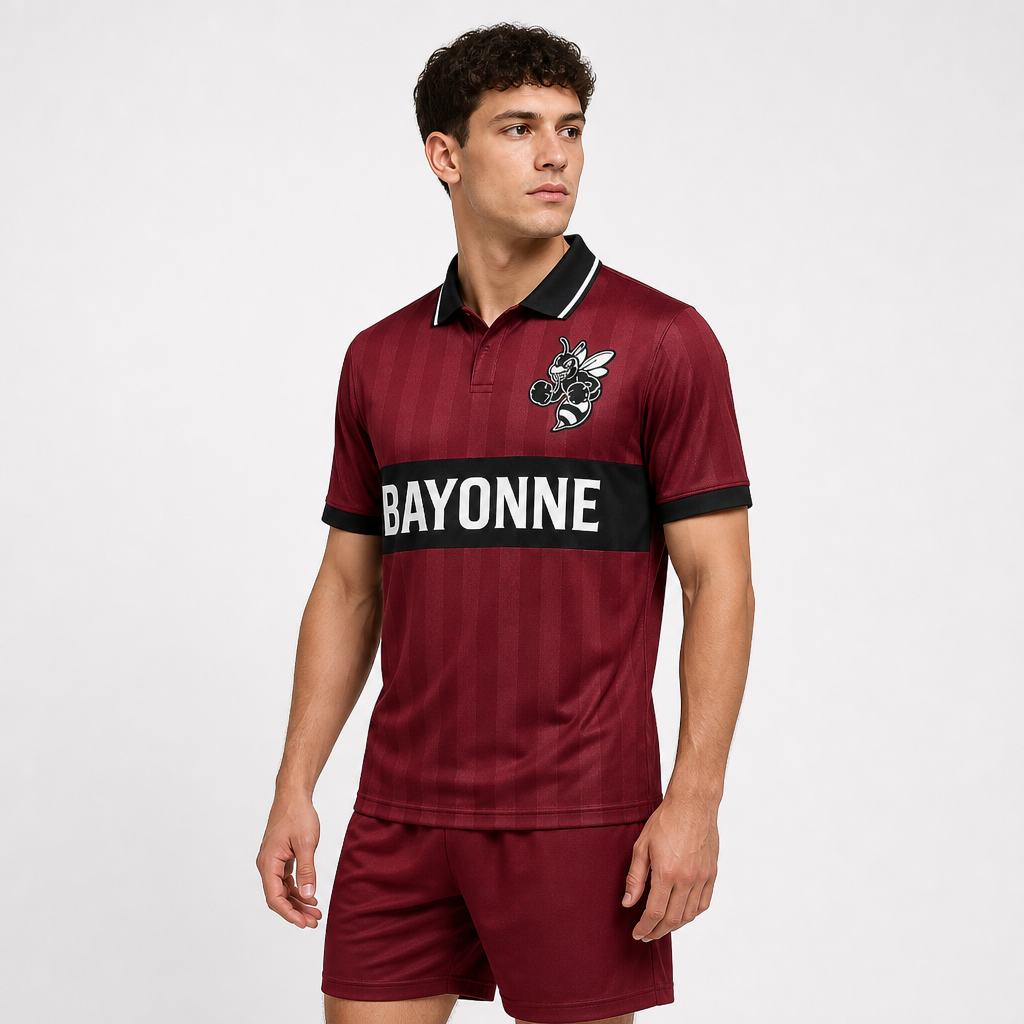
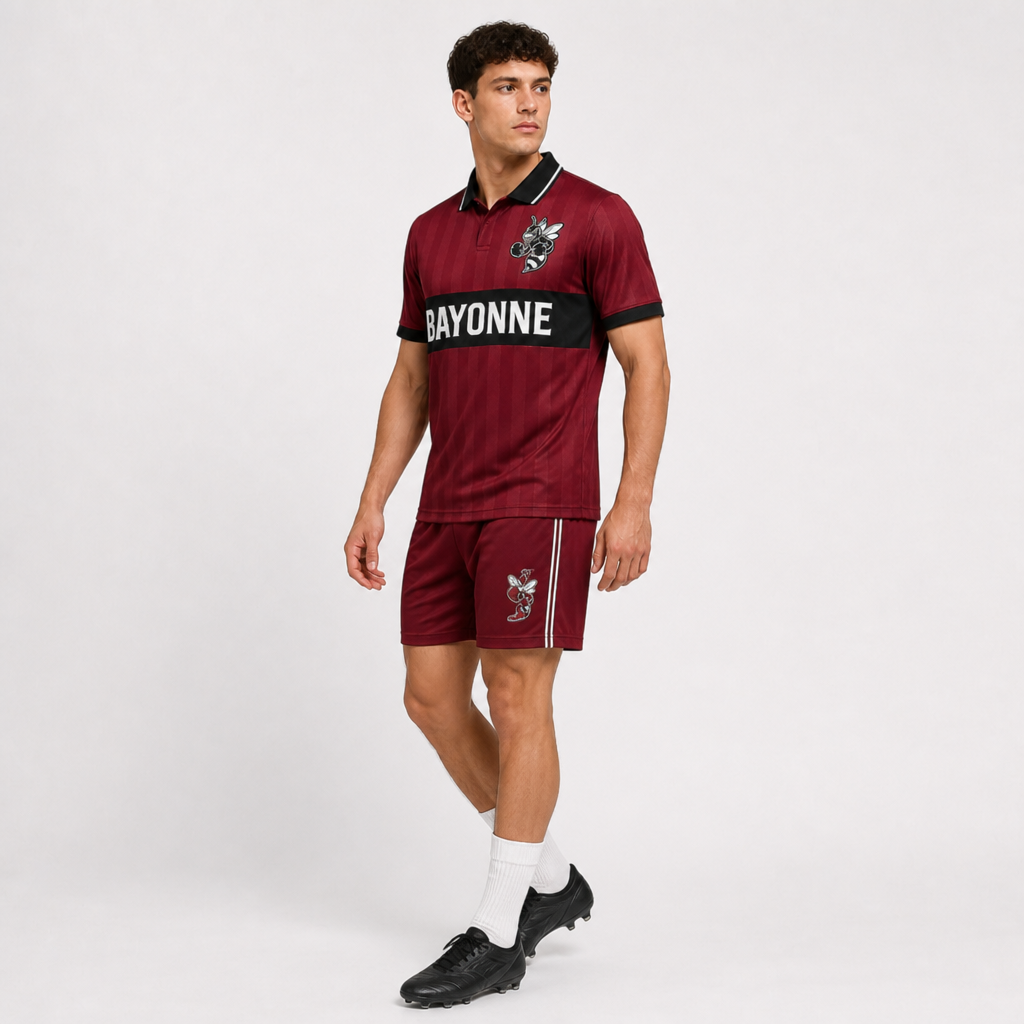
Streamline shorts to double ink pinstripes
Match day shorts use white/bone double pinstripes; alumni and other
shorts use black. Sublimated ink only — not embroidered, never three
stripes. Regenerates truth plates, full-kit set front, and campaign
shots; documents the rule in tokens and listing copy.

Changed region(s): [[0.25, 0.0, 0.75, 1.0]]

diff --git a/src/lib/catalog.ts b/src/lib/catalog.ts
@@ -188,7 +188,7 @@ export const PRODUCTS: CatalogProduct[] = [
     previewPair: "front-back",
     sizeChart: "apparel",
     lettering: LETTERING,
-    thumb: PLATES.jersey.front,
+    thumb: thumbFor("jersey"),
     previews: { ...PLATES.jersey },
   },
   {
@@ -196,7 +196,7 @@ export const PRODUCTS: CatalogProduct[] = [
     handle: "bayonne-bees-shorts",
     name: "Match Shorts",
     blurb:
-      "Same garnet as the jersey. Geometric side panel. Bee on the left leg. No name or number.",
+      "Same garnet as the jersey. Double white ink pinstripes on the side — sublimated, not embroidered. Bee on the left leg. No name or number.",
     category: "match",
     price: 34,
     shopifyItem: "bottom",
@@ -205,7 +205,7 @@ export const PRODUCTS: CatalogProduct[] = [
     typography: false,
     previewPair: "front-side",
     sizeChart: "apparel",
-    thumb: PLATES.shorts.front,
+    thumb: thumbFor("shorts"),
     previews: { ...PLATES.shorts },
   },
   {
@@ -213,7 +213,7 @@ export const PRODUCTS: CatalogProduct[] = [
     handle: "bayonne-bees-full-set",
     name: "Full Kit Set",
     blurb:
-      "Black-collar jersey and matching shorts. One garnet. One crest. Name and number on the jersey.",
+      "Black-collar jersey and matching shorts with double white ink pinstripes. One garnet. One crest. Name and number on the jersey.",
     category: "match",
     price: 89,
     shopifyItem: "set",
@@ -229,7 +229,7 @@ export const PRODUCTS: CatalogProduct[] = [
       name: { ...LETTERING.name, y: 16 },
       number: { ...LETTERING.number, y: 28 },
     },
-    thumb: PLATES["full-set"].front,
+    thumb: thumbFor("full-set"),
     previews: { ...PLATES["full-set"] },
   },
   {
@@ -246,7 +246,7 @@ export const PRODUCTS: CatalogProduct[] = [
     sizeChart: "apparel",
     /** Blackout mesh — full torso; geometric center is the spine */
     lettering: { ...LETTERING, centerX: 50, surface: "blackout" },
-    thumb: PLATES["hoops-jersey"].front,
+    thumb: thumbFor("hoops-jersey"),
     previews: { ...PLATES["hoops-jersey"] },
   },
   {
@@ -263,7 +263,7 @@ export const PRODUCTS: CatalogProduct[] = [
     previewPair: "front-back",
     sizeChart: "apparel",
     lettering: { ...LETTERING, centerX: 49.5 },
-    thumb: PLATES["jersey-dress"].front,
+    thumb: thumbFor("jersey-dress"),
     previews: { ...PLATES["jersey-dress"] },
   },
   {
@@ -294,7 +294,7 @@ export const PRODUCTS: CatalogProduct[] = [
     typography: false,
     previewPair: "front-side",
     sizeChart: "apparel",
-    thumb: PLATES.crewneck.front,
+    thumb: thumbFor("crewneck"),
     previews: { ...PLATES.crewneck },
   },
   {
@@ -325,7 +325,7 @@ export const PRODUCTS: CatalogProduct[] = [
     previewPair: "front-back",
     sizeChart: "apparel",
     lettering: { ...LETTERING, centerX: 50 },
-    thumb: PLATES["ls-jersey"].front,
+    thumb: thumbFor("ls-jersey"),
     previews: { ...PLATES["ls-jersey"] },
   },
   {
@@ -340,14 +340,15 @@ export const PRODUCTS: CatalogProduct[] = [
     typography: false,
     previewPair: "front-back",
     sizeChart: "apparel",
-    thumb: PLATES["quarter-zip"].front,
+    thumb: thumbFor("quarter-zip"),
     previews: { ...PLATES["quarter-zip"] },
   },
   {
     id: "geo-shorts",
     handle: "bayonne-bees-geo-shorts",
     name: "Alumni Shorts",
-    blurb: "Same garnet as the match strip. Geometric side panel off the field.",
+    blurb:
+      "Same garnet as the match strip. Double black ink pinstripes on the side — sublimated, not embroidered. Off the field.",
     category: "alumni",
     price: 42,
     customizable: true,
@@ -355,7 +356,7 @@ export const PRODUCTS: CatalogProduct[] = [
     typography: false,
     previewPair: "front-side",
     sizeChart: "apparel",
-    thumb: PLATES["geo-shorts"].front,
+    thumb: thumbFor("geo-shorts"),
     previews: { ...PLATES["geo-shorts"] },
   },
 ];

diff --git a/src/catalog/skus.ts b/src/catalog/skus.ts
@@ -132,11 +132,13 @@ const DRAFTS: Draft[] = [
     block: "match-short-v1",
     mode: "motif",
     motifDefault: "chevron",
-    blurb: "135gsm micro-poly. Bone hairline piping. Garnet→inkBlack gradient side panel.",
+    blurb:
+      "135gsm micro-poly. Double bone/white ink pinstripes on the side — sublimated, not embroidered.",
     plateFront: "shorts",
     plateSecondary: "shorts",
     strikeOffApproved: true,
-    patternCopy: MOTIF_MEANING.chevron,
+    patternCopy:
+      "Double white ink pinstripes — match-day side language, two lines only (never three).",
   },
   {
     sku: "BB-SOCK",
@@ -332,11 +334,13 @@ const DRAFTS: Draft[] = [
     block: "alumni-short-v1",
     mode: "motif",
     motifDefault: "chevron",
-    blurb: "Same garnet as the Match strip. Off-field cut.",
+    blurb:
+      "Same garnet as the Match strip. Double black ink pinstripes on the side — sublimated, not embroidered. Off-field cut.",
     plateFront: "geo-shorts",
     plateSecondary: "geo-shorts",
     strikeOffApproved: true,
-    patternCopy: MOTIF_MEANING.chevron,
+    patternCopy:
+      "Double black ink pinstripes — alumni/sideline side language, two lines only (never three).",
   },
   {
     sku: "BB-CLASS",

diff --git a/src/lib/campaignAssets.ts b/src/lib/campaignAssets.ts
@@ -16,6 +16,7 @@ import dressFront from "@/assets/bayonne/campaign/dress-front.jpg";
 import dressTq from "@/assets/bayonne/campaign/dress-three-quarter.jpg";
 import dressBack from "@/assets/bayonne/campaign/dress-back.jpg";
 import shortsFront from "@/assets/bayonne/campaign/shorts-front.jpg";
+import geoShortsFront from "@/assets/bayonne/campaign/geo-shorts-front.jpg";
 import crewFront from "@/assets/bayonne/campaign/crew-front.jpg";
 import qzipFront from "@/assets/bayonne/campaign/qzip-front.jpg";
 
@@ -54,6 +55,7 @@ export const CAMPAIGN_SHOTS: Record<string, CampaignViewMap> = {
     back: dressBack,
   },
   shorts: { front: shortsFront },
+  "geo-shorts": { front: geoShortsFront },
   crewneck: { front: crewFront },
   "quarter-zip": { front: qzipFront },
 };

diff --git a/tests/pinstripe.test.ts b/tests/pinstripe.test.ts
@@ -1,0 +1,17 @@
+import { describe, expect, it } from "vitest";
+import { COLOR } from "@/tokens/brand";
+import { PINSTRIPE, pinstripeInk } from "@/tokens/pinstripe";
+
+describe("shorts pinstripe system", () => {
+  it("uses exactly two sublimated ink lines", () => {
+    expect(PINSTRIPE.count).toBe(2);
+    expect(PINSTRIPE.finish).toBe("sublimated-ink");
+  });
+
+  it("assigns white/bone to match and black to all others", () => {
+    expect(pinstripeInk("match")).toBe(COLOR.bone);
+    expect(pinstripeInk("other")).toBe(COLOR.inkBlack);
+    expect(PINSTRIPE.match).toBe(COLOR.bone);
+    expect(PINSTRIPE.other).toBe(COLOR.inkBlack);
+  });
+});

diff --git a/src/tokens/pinstripe.ts b/src/tokens/pinstripe.ts
@@ -1,0 +1,21 @@
+/**
+ * Shorts side language — double ink pinstripes (sublimation), never embroidered.
+ * Two lines only — never three (manufacturer three-stripe exclusion).
+ */
+
+import { COLOR } from "./brand";
+
+export const PINSTRIPE = {
+  count: 2,
+  finish: "sublimated-ink",
+  /** Match day kit shorts */
+  match: COLOR.bone,
+  /** Alumni, sideline, and all non-match shorts */
+  other: COLOR.inkBlack,
+} as const;
+
+export type ShortsPinstripeRole = "match" | "other";
+
+export function pinstripeInk(role: ShortsPinstripeRole): string {
+  return role === "match" ? PINSTRIPE.match : PINSTRIPE.other;
+}

diff --git a/docs/OGILVY_STORE_COPY.md b/docs/OGILVY_STORE_COPY.md
@@ -57,16 +57,16 @@ Ogilvy's rules: the headline does 80% of the work, it states a fact rather than 
 Prices from current catalog. Fabric weights cut until measured.
 
 - **Match Jersey** — $58. Black V-neck. Garnet field. Black chest panel with BAYONNE. Crest left. Name and number on the back.
-- **Match Shorts** — $34. Same garnet as the jersey. Geometric side panel you pick (front + side preview). No name or number.
+- **Match Shorts** — $34. Same garnet as the jersey. Double white ink pinstripes on the side (sublimated, not embroidered). No name or number.
 - **AOP Hat** — $36. All-over geo on the crown. Crest up front. Front + side preview.
-- **Full Kit Set** — $89. Black-collar jersey and matching shorts. One garnet. One crest.
+- **Full Kit Set** — $89. Black-collar jersey and matching shorts with double white ink pinstripes. One garnet. One crest.
 - **Hoops Jersey** — $52. Black mesh. Garnet trim. Crest left. Number on the chest.
 - **Jersey Dress** — $72. One-piece sideline cut. Color-block basketball crest. Name and number on the back.
 - **1936 Crewneck** — $64. Garnet body, black geo side panels (front + side). Motif only — no lettering.
 - **Base Layer Sweats** — $58. Black base, garnet geometric side panel you pick (front + side). Motif only.
 - **Long-Sleeve Jersey** — $62. Name and number on the back. Year inside the collar.
 - **Quarter-Zip** — $68. Crest on the left chest. Nothing else on the front.
-- **Alumni Shorts** — $42. Same garnet as the match strip. Geometric side panel off the field (front + side).
+- **Alumni Shorts** — $42. Same garnet as the match strip. Double black ink pinstripes on the side (sublimated, not embroidered).
 
 **Queen Bees Tee** (when listed): Made for the girls soccer program. The crest was drawn for them and had never existed before. Price TBD when the SKU ships.
 

diff --git a/docs/LISTING_MAP.md b/docs/LISTING_MAP.md
@@ -137,14 +137,16 @@ Print-zone reference scale (`src/lib/kit.ts` → `LETTERING`), as % of mockup / 
 
 ### 2. Athletic shorts (`bayonne-bees-shorts`)
 
-App preview: **front + side** (not back). Customer picks geometric motif; no name/number/font.
+App preview: **front + side** (not back). No name/number/font.
+
+**Side language (all shorts):** exactly **two** sublimated ink pinstripes — never embroidered, never three (manufacturer exclusion).  
+**Match day:** white/bone pinstripes · **Alumni / sideline / other:** black pinstripes.
 
 | Zone | Placement | Art |
 |---|---|---|
-| Side panels | Outer thigh, full height | None / chevron / grid / arc (customer motif) |
-| Hem accent | Bottom 8–12% | Thin bone/maroon rule or micro-geo |
-| Soft brand | Lower left leg, H ~6% | Small crest or `BEES` wordmark |
-| Waistband | Solid black or maroon | No critical logos on elastic |
+| Side pinstripes | Outer thigh, full height | Double white/bone ink lines (match) |
+| Soft brand | Lower left leg, H ~6% | Boxing-bee crest |
+| Waistband | Solid black | No critical logos on elastic |
 
 ### 2b. AOP hat (`bayonne-bees-aop-hat`)
 
@@ -214,12 +216,14 @@ App preview: **front + side**. Versatile black base with garnet accent side pane
 | Soft brand | Left thigh | Small boxing-bee crest |
 | Waist / cuff | Black rib | Drawcord optional |
 
-### 10. Geo lifestyle shorts (`bayonne-bees-geo-shorts`)
+### 10. Alumni shorts (`bayonne-bees-geo-shorts`)
+
+Same double-pinstripe system as Match Shorts; ink is **black** (not white).
 
 | Zone | Art |
 |---|---|
-| Panels | Polka / topo / chevron in maroon-black-bone |
-| Brand lockup | Lower leg: crest + `BEES` (not sample/placeholder text) |
+| Side pinstripes | Double black ink lines, waist to hem |
+| Brand lockup | Lower leg: boxing-bee crest |
 
 ---
 

diff --git a/docs/BRAND_ASSETS.md b/docs/BRAND_ASSETS.md
@@ -32,6 +32,8 @@ Lifestyle stills carry the site story. Product plates stay for **Tier 2 TRUTH** 
 
 On-body campaign stills live in `src/assets/bayonne/campaign/` and are registered in `src/lib/campaignAssets.ts` (`status: shot`). Lettered backs carry `AVENUE A` / `36`; PDP overlays the “Your name goes here” badge. Truth plates stay in `previews/` for the configurator.
 
+**Shorts pinstripes:** double sublimated ink only (`src/tokens/pinstripe.ts`) — white/bone on Match, black on Alumni/sideline. Never embroidered; never three stripes.
+
 ## Adding a SKU image
 
 1. Add files under `src/assets/bayonne/previews/` (truth plates).

diff --git a/src/assets/bayonne/previews/README.md b/src/assets/bayonne/previews/README.md
@@ -22,6 +22,9 @@ Resolve only via `PLATES` in [`src/lib/brandAssets.ts`](../../../lib/brandAssets
 
 ## Motif pieces — front + side
 
+Shorts side language: **double ink pinstripes** (sublimated, not embroidered).  
+Match = white/bone · Alumni/sideline = black. Never three stripes.
+
 | Product | Front | Side |
 |---|---|---|
 | Match Shorts | `shorts-front.jpg` | `shorts-side.jpg` |
